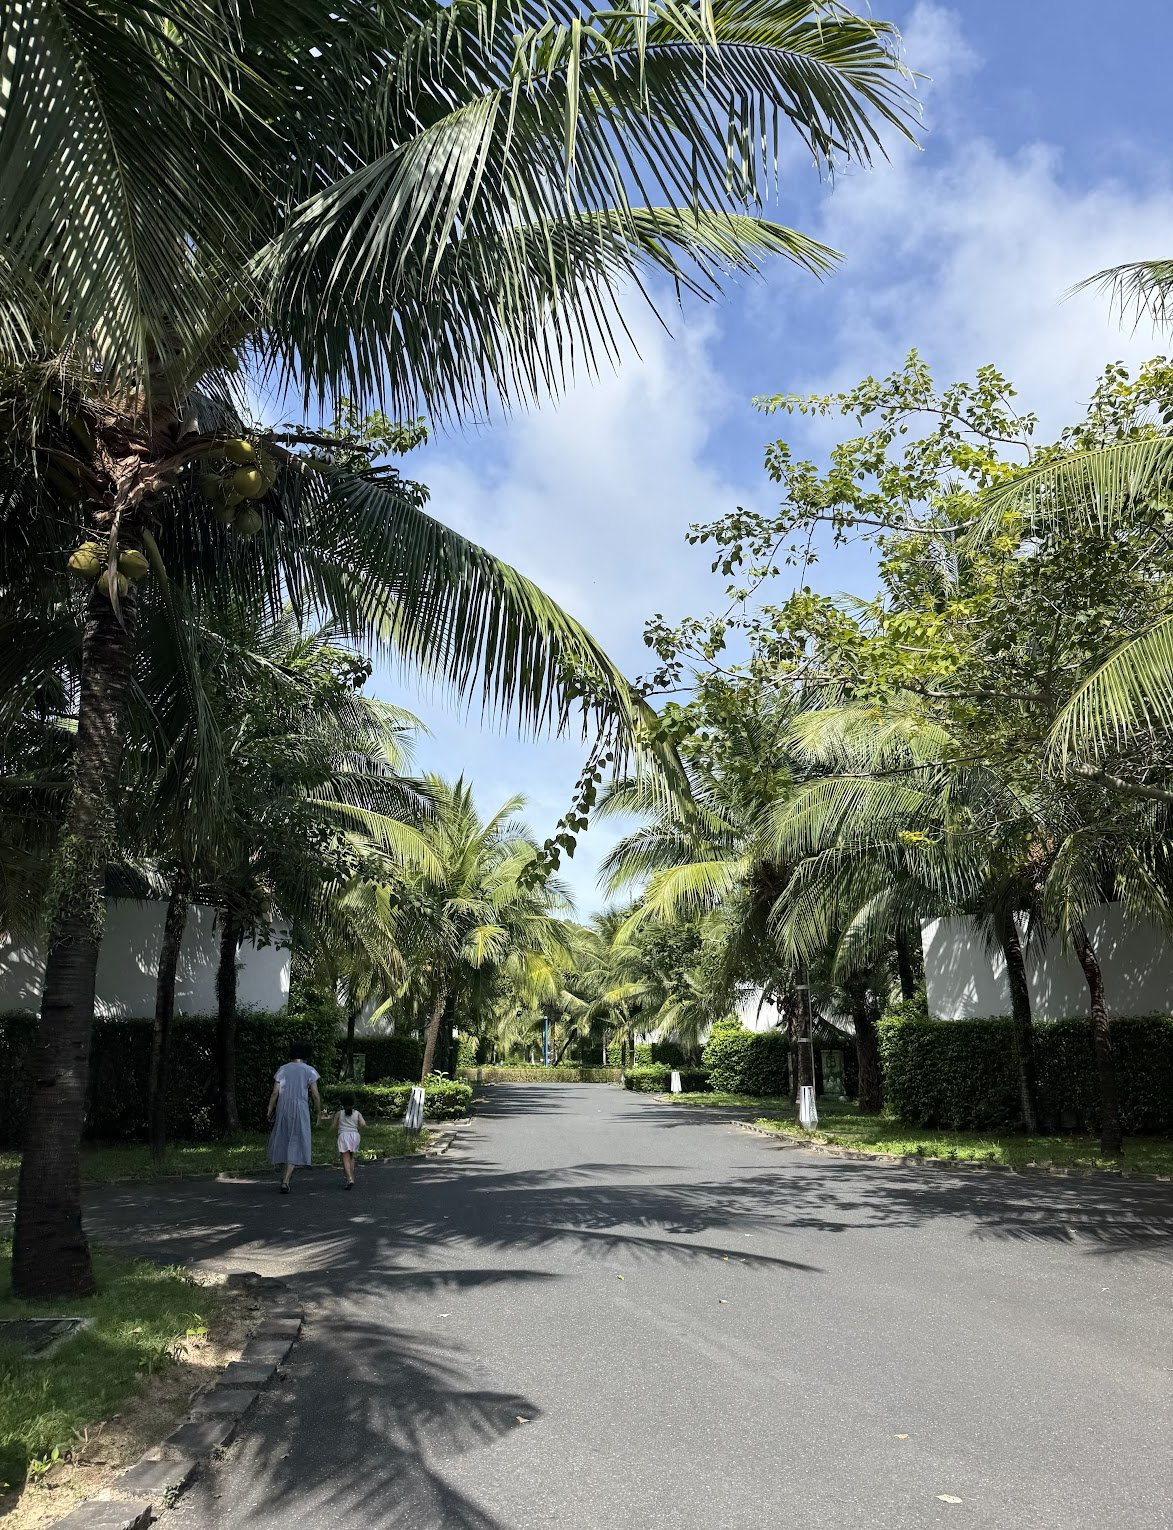
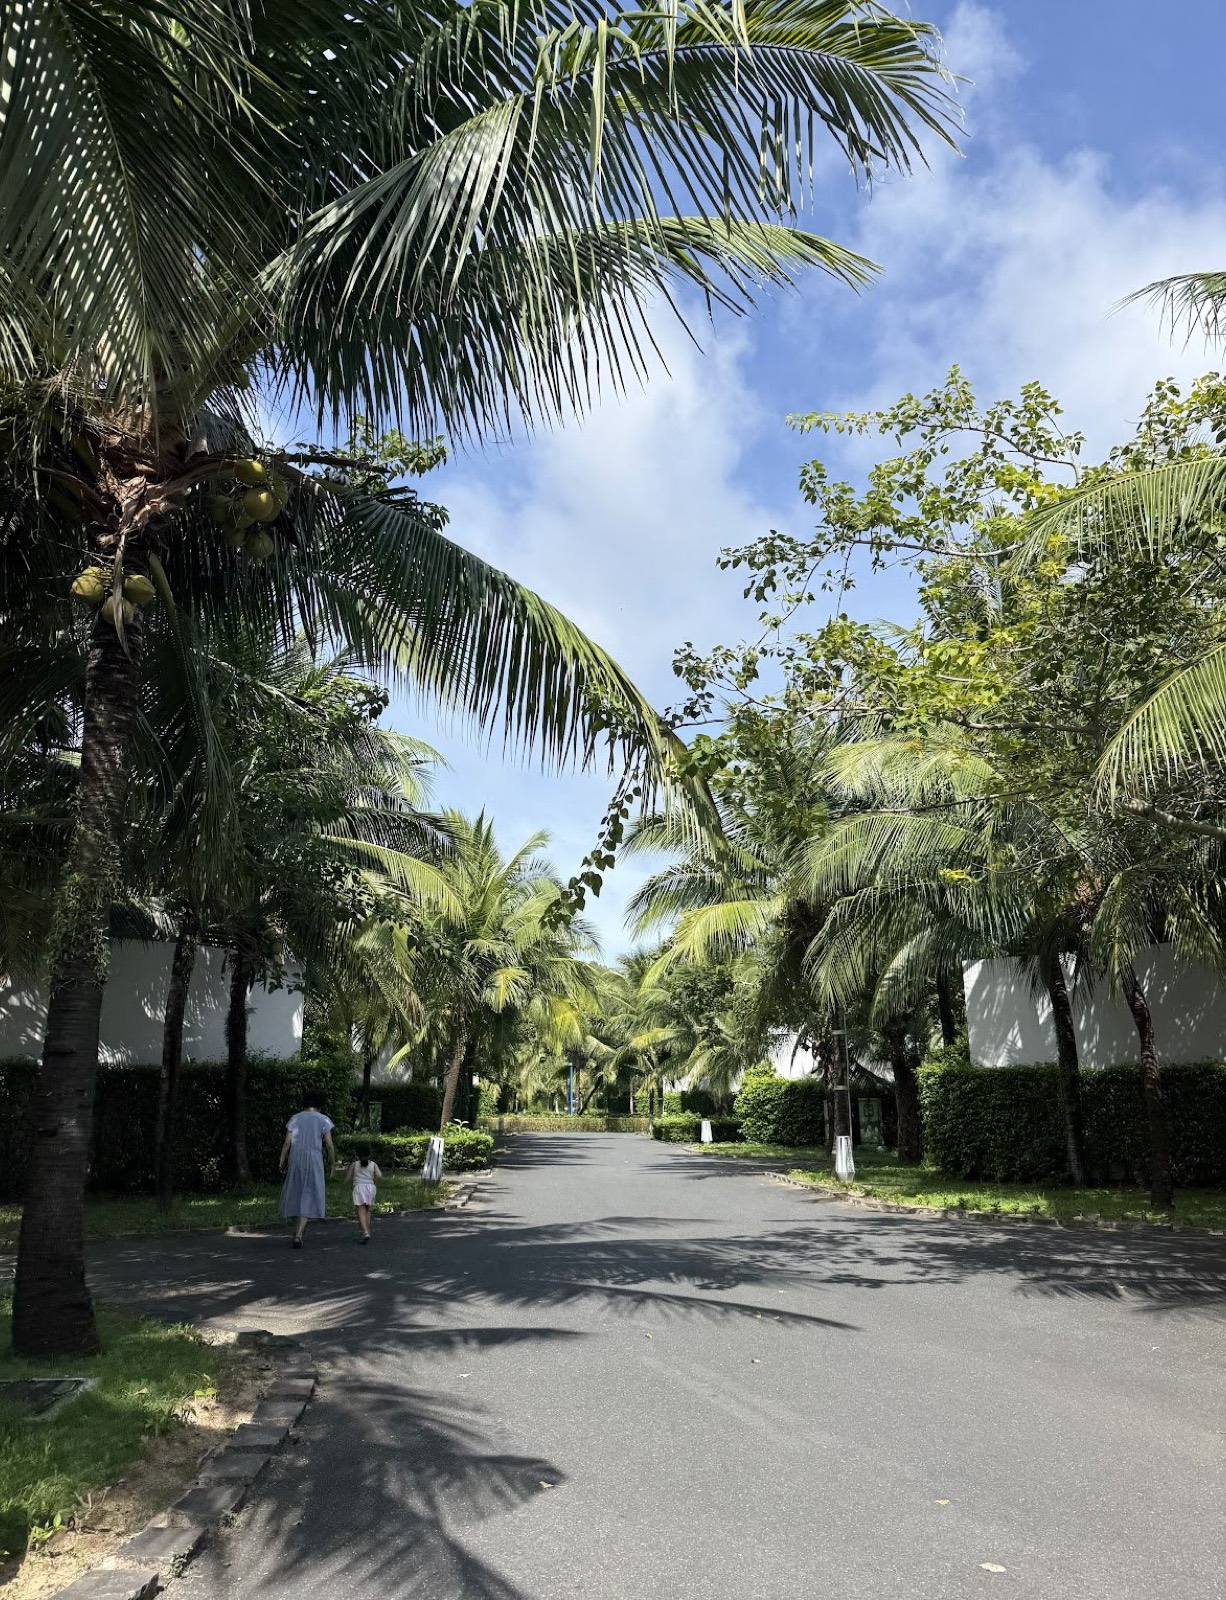
feat(blog): publish phu-quoc-family-trip-and-space
Fix broken absolute image paths, dedupe space-containing filenames,
group photos into 2-3 column grids, and downsize originals
(127MB -> ~20MB) for reasonable page weight.

Claude-Session: https://claude.ai/code/session_01GbUNymZzbu5w3CoQbs2ZvL

diff --git a/_posts/2026-09-28-phu-quoc-family-trip-and-space.md b/_posts/2026-09-28-phu-quoc-family-trip-and-space.md
@@ -1,6 +1,6 @@
 ---
-title: "푸꾸옥 가족 여행 후기: 괌·이시가키보다 편했던 건 '공간의 여유'"
-subtitle: 베트남 푸꾸옥은 괌, 이시가키보다 편했다
+title: "푸꾸옥 가족 여행 후기: 괌·이시가키보다 편했다"
+subtitle: 푸꾸옥의 압도적 숙소, 리조트 공간이 주는 여유 
 description: 부모님, 아이들과 함께한 푸꾸옥 남부 가족여행 후기. 뉴월드 푸꾸옥 풀빌라가 괌·이시가키보다 편했던 이유와 리조트 근처의 선셋타운 인상, 잘 쉬는 여행이 남긴 생각을 적어보았다.
 date: 2026-09-28 03:30:00 +09:00
 categories: [life]
@@ -8,29 +8,50 @@ tags: [푸꾸옥, 가족여행, 풀빌라, 베트남 여행]
 internal_tags: [푸꾸옥 가족여행 후기, 뉴월드 푸꾸옥 풀빌라, 푸꾸옥 대가족 여행, 괌 푸꾸옥 비교, 푸꾸옥 선셋타운, 부이페스트 야시장, 1인당 공간, 삶의 지향점]
 hero_image: /assets/images/thumbnail/2026-09-28_phu-quoc-family-trip-and-space.png
 ---
+
+<style>
+.yb-img-grid { display: flex; flex-wrap: wrap; gap: 8px; margin: 20px 0; }
+.yb-img-grid img { flex: 1 1 0; min-width: 0; width: 100%; height: 220px; object-fit: cover; border-radius: 8px; }
+.yb-img-grid.cols-2 img { flex-basis: calc(50% - 4px); }
+.yb-img-grid.cols-3 img { flex-basis: calc(33.333% - 6px); }
+@media (max-width: 600px) {
+  .yb-img-grid img { flex-basis: calc(50% - 4px) !important; height: 140px; }
+}
+</style>
+
 푸꾸옥 여행을 한마디로 표현한다면 여력, 여유라고 할 수 있을 것 같다. 푸꾸옥은 땅에도, 자연에도, 숙소에도 여분의 공간이 있는 섬이다. 한국에서 익숙해진 효율의 눈으로 보면 조금 낯설 정도였다. 땅도, 자연도, 사람이 쉬는 자리도 어떻게든 더 잘게 쪼개 쓰려는 느낌이 없고, '그거 빼도 남는 거 많다' 이런 느낌이랄까? 이번 여행에서 내가 좋았던 건 어쩌면 그 넉넉함 자체였는지도 모르겠다.
 
 <!--more-->
 
 부모님, 아이들과 함께한 푸꾸옥 여행에서 가장 많이 느낀 건 이런 '뭔가 아직 많이 남아 있다'는 여지, 여력이다. 더 개발할 땅과 국가의 지원이 있었고, 햇빛과 물을 잔뜩 받아 자신감 넘치는 식물들이 있었고, 리조트 공간은 한푼이라도 더 원금 회수해보려는 의도조차 없는 듯 박하지 않고 넉넉했다. 
 
+
+
 ## 푸꾸옥에서 받은 인상들
 
-### 1. 이 곳은 포텐(Potential)의 섬
+### 1. 포텐(Potential)의 섬
 
 푸꾸옥 공항의 첫인상은 괌, 이시가키 같은 섬나라 작은 공항과 다르지 않다. 하지만 공항을 나오면 이 섬들과는 확연히 다르다는 것을 알게 된다. 바로 이 공항 주변에서는 대형 공사가 진행 중이라는 것. 나는 이 모습을 푸꾸옥 또한 성장 여력으로 읽었다.
 
 '고작 공사장으로? 성장 잠재력을 느꼈다고?' 라 할 수 있지만 공사의 규모가 정말 컸다.  대규모 공항 증축을 하고 있고, 오페라 하우스 건축하고 있었고, 이미 화려한 리조트가 가득 차있는데 리조트를 추가 건설하고 있었다. 한국은 재건축 신축 아파트 공사 정도가 그나마 대형 공사일텐데, 주거가 아닌 초대형 개발 수요와 그걸 받쳐줄 공간이 남아있다는게 너무 신기했다. 
 
+<div class="yb-img-grid cols-2">
+  <img src="/assets/images/posting/260928/phuquoc_airport.jpg" alt="푸꾸옥 공항 공사 현장">
+  <img src="/assets/images/posting/260928/phuquoc_airport_new.webp" alt="푸꾸옥 공항 신축 현장">
+</div>
+
 ### 2. 식물들의 자신감이 넘치는 섬
 
 아열대 섬답게 나무들은 자신감이 넘친다. 햇살도, 물도 많고 따뜻하니 토양은 촉촉하고 나무의 키는 크고 꽃잎과 이파리는 활짝 펼쳐져 있다. 강렬한 해에 지쳐 커질 대로 커지다 오그라들거나 타버린 잎들도 있다. 야자수의 갈라진 잎조차 해를 다 받으니 감당이 안 돼서 효율상 갈라진 것처럼 보일 정도. 
 
-![리조트 산책로를 따라 빽빽하게 자란 나무들](/assets/images/posting/260928/resort-plants.jpg)
+<div class="yb-img-grid cols-2">
+  <img src="/assets/images/posting/260928/resort-road.jpg" alt="리조트 진입로 가로수">
+  <img src="/assets/images/posting/260928/resort-plant-lotus.jpg" alt="연꽃">
+  <img src="/assets/images/posting/260928/laundry-plant2.jpg" alt="빨랫방망이 나무">
+  <img src="/assets/images/posting/260928/resort-plant.jpg" alt="리조트 식물">
+</div>
 
-이 나무는 리조트 곳곳에 있던 나무다. 평범한 나무인데 어찌나 잎이 단단하고 기세가 넘치는지... 나는 이걸 빨랫방망이 나무라고 이름 붙였다. 뽑아서 빨래 방망이로 써도 될 것 같아서....
-
-![빨랫방망이 나무](/assets/images/posting/260928/laundry-bat-tree.jpg)
+마지막의 이 풀은 리조트 곳곳에 있던 나무다. 평범한 나무인데 어찌나 잎이 단단하고 기세가 넘치는지... 나는 이걸 빨랫방망이 나무라고 이름 붙였다. 뽑아서 빨래 방망이로 써도 될 것 같아서....
 
 먹는 채소 또한 어디서 먹어도 정말 싱싱했다. 여기는 콜드 체인이 잘되어있나?  그릇에서 꺼내 땅에 심으면 다시 자랄 것 같은 정도?로 모든 음식에 곁들여진 채소의 신선함이 남달랐다. 
 
@@ -40,9 +61,11 @@ hero_image: /assets/images/thumbnail/2026-09-28_phu-quoc-family-trip-and-space.p
 
 나는 한국인의 성격이 급한 건 기후 영향이 있다고 생각해왔다. 우리나라는 봄, 여름에 미리 준비하지 않으면 겨울을 굶어야 하니 서두름이 몸에 밴 것이 아닐까하는 가설이다. 그런데 베트남은 겨울도 없고 먹을 것도 넉넉한데도 이런 빠릿함과 명확함이 섞여 있어서 이 나라의 이야기가 궁금해졌다. 
 
+
+
 ## 푸꾸옥 리조트 후기 - 풀빌라의 축복이 끝이 없네
 
-{: data-toc="푸꾸옥 풀빌라가 가족 여행에 편한 3가지"}
+{: data-toc="푸꾸옥 풀빌라가 좋은 3가지"}
 
 왜 푸꾸옥을 부모님이나 아이들과 함께 오는 대가족 여행지로 많이 찾는지, 완전 이해했다. 
 
@@ -50,7 +73,7 @@ hero_image: /assets/images/thumbnail/2026-09-28_phu-quoc-family-trip-and-space.p
 
 ### 1. 완벽히 개인화된 휴식을 취할 수 있었다
 
-{: data-toc="각자 편하게 쉴 수 있다 "}
+{: data-toc="개별 휴식 공간"}
 
 이번 여행에서 가장 만족스러운 것은 숙소였다. 
 
@@ -58,19 +81,28 @@ hero_image: /assets/images/thumbnail/2026-09-28_phu-quoc-family-trip-and-space.p
 
 괌, 이시가키 등 리조트 여행을 다녀왔을 때는 리조트의 방을 빌리는 형태였다. 문제는 가족 여행이라 커넥티드 룸을 열어두고 있어서 편하기도 했지만 묘하게 신경이 많이 쓰였고 같은 방을 쓰면 더욱이 편히 쉬기가 어려웠다. 
 
+<div class="yb-img-grid cols-2">
+  <img src="/assets/images/posting/260928/IMG_4485.jpg" alt="풀빌라 방">
+  <img src="/assets/images/posting/260928/IMG_4165.jpg" alt="풀빌라 침실">
+  <img src="/assets/images/posting/260928/IMG_4175.jpg" alt="풀빌라 욕실">
+  <img src="/assets/images/posting/260928/pool-villa-living-room.png" alt="풀빌라 거실">
+</div>
+
 ### 2. 우리 혼자 리조트 쓰나? 사람에 치이지 않았다
 
-{: data-toc="프라이빗한 "}
+{: data-toc="프라이빗한 공간"}
 
 넓은 리조트 전체를 우리 가족끼리 빌려 쓰는 것 같다고 느꼈다. '와 여기 우리뿐인가?' 싶은 여유와 자유로움. 사실 조식 먹을 때 보면 사방이 한국인인데, 리조트에서는 한국인 뿐만 아니라 다른 여행객을 마주칠 일이 거의 없다.  각자 리조트의 빌라 한 동을 빌려 쓰기도 하고, 이동할 때는 버기카를 불러 따로  다니다보니 그런 듯 하다.  
 
-![사람 없이 한적한 리조트 안 길](/assets/images/posting/260928/resort-road.jpg)
+![리조트 전경](/assets/images/posting/260928/phuquoc-pool-villa2.jpg)
 
 ### 3. 이동과 짐나르기의 번거로움이 거의 없다
 
-{: data-toc="노인과 아이가 오래 걷지 않아도 된다"}
+{: data-toc="걷지 않고 버기카로 "}
 
 리조트 내를 버기로 이동하다 보니 아이들도,  오래 걷기 힘든 어르신들도 부담스럽지 않았다. 특히 수영장이나 바닷가를 나갈 때, 짐을 잔뜩 가지고 가는 것도 쉽고 지칠때까지 놀고 버기를 타고 편하게 다시 돌아 올 수 있었다. 이런 이동과 짐챙기기 놀고 돌아오면서 생기는 여분의 피로와 짜증이 없었다. 
+
+![버기카](/assets/images/posting/260928/phuquoc-pool-villa.png)
 
 
 
@@ -86,21 +118,28 @@ hero_image: /assets/images/thumbnail/2026-09-28_phu-quoc-family-trip-and-space.p
 
 뉴월드 푸꾸옥 리조트 앞은 정말 뭐가 없다. 그래서 가끔 저녁을 리조트 근처에서 먹기 위해 10개 남짓한 리조트 앞 가게에 가야하나? 망설였다. 보통 리조트 앞 가게는 비싸고 창렬하다는게 통설이니까. 
 
-그래서 어차피 가야하지만 괜찮은 구글 리뷰를 보면서도 전전긍긍하며 피자집(Thyme Bistro)에 갔는데... 음식이 정말 맛있었다. 친절하기도 했고. 그러면서 다음날부터 마사지 샵(Sen Spa)과 태국 음식점(Thai Papaya), 베트남 음식점(Com Tho Tay Cam)을 갔는데 모두 맛이 있었고 가격도 정말 괜찮았다. 7그릇 시켜서 5만 5천원 정도? ㅎㅎ 
+그래서 어차피 가야하지만 괜찮은 구글 리뷰를 보면서도 전전긍긍하며 피자집( [Thyme Bistro](https://www.google.com/maps/place/Thyme+Bistro+Restaurant+Phu+Quoc/@10.0388138,104.0229438,17z/data=!3m1!4b1!4m6!3m5!1s0x31a797004cc029c9:0xe04fd9a9e5de7f4!8m2!3d10.0388138!4d104.0255187!16s%2Fg%2F11wxtzntvl?entry=ttu&g_ep=EgoyMDI2MDkyMy4wIKXMDSoASAFQAw%3D%3D))에 갔는데... 음식이 정말 맛있었다. 친절하기도 했고. 그러면서 다음날부터 마사지 샵([Sen Spa](https://www.google.com/maps/place/Sen+Spa/@10.0357227,104.0127487,17z/data=!4m6!3m5!1s0x31a7978e1af51b63:0xf9a26d8e9a06d78b!8m2!3d10.0387616!4d104.0255245!16s%2Fg%2F11vj1b49yg?entry=ttu&g_ep=EgoyMDI2MDkyMy4wIKXMDSoASAFQAw%3D%3D))과 태국 음식점([Thai Papaya](https://www.google.com/maps/place/Thai+Papaya+Restaurant/@10.0387214,104.0229506,17z/data=!4m14!1m7!3m6!1s0x31a7970d88f98fc3:0xc23bb6cb1ac4bc23!2sThai+Papaya+Restaurant!8m2!3d10.0387214!4d104.0255255!16s%2Fg%2F11y8rhy12w!3m5!1s0x31a7970d88f98fc3:0xc23bb6cb1ac4bc23!8m2!3d10.0387214!4d104.0255255!16s%2Fg%2F11y8rhy12w?entry=ttu&g_ep=EgoyMDI2MDkyMy4wIKXMDSoASAFQAw%3D%3D)), 베트남 음식점([Com Tho Tay Cam](https://www.google.com/maps/place/Com+Tho+Tay+Cam+Seafood+%26+Meat+BBQ+Restaurant/@10.038754,104.0229826,17z/data=!3m1!4b1!4m6!3m5!1s0x31a797b63972be01:0x8824e760f9d4dc53!8m2!3d10.038754!4d104.0255575!16s%2Fg%2F11lnsdgb5c?entry=ttu&g_ep=EgoyMDI2MDkyMy4wIKXMDSoASAFQAw%3D%3D))을 갔는데 모두 맛이 있었고 가격도 정말 괜찮았다. 7그릇 시켜서 5만 5천원 정도? ㅎㅎ 
 
  고르느라 애쓰지 않고 그냥 앞에 있는 데 들어가도 괜찮네? 어디가 괜찮은가 너무 고민하지 않아도 돼서 편했다. 
+
+
 
 ### 2. 계획도시의 스케일 - 선셋타운과 부이페스트 야시장
 
 {: data-toc="푸꾸옥 선셋타운 후기"}
 
-푸꾸옥에서  설계자로 일했다면 참 행복했을 것 같다. 개인에게 주어지는 공간도 컸지만 한 번에 설계할 수 있는 공간의 크기 자체도 크다고 느꼈다. 선셋타운과 부이페스트 야시장은 계획해 만든 관광타운임에도 기계적이거나 조악하지 않았다. 메인스트림은 길도 아주 넓게 건물도 규모감을 아주 크게 해서 시원시원하다. 키스브릿지앞 대형 건물을 보고 '콜로세움이야 뭐야' 싶었다.  메인스트림 아래로 내려가면 해변을 끼고 각종 식당가가 언덕을 따라 길게 이어진다. 언덕 지형을 따라 골목과 계단이 층층이 이어져 오래된 유럽 마을 같은 분위기가 난다. 
+푸꾸옥에서 건축 설계자로 일했다면 참 행복했을 것 같다. 개인에게 주어지는 공간도 컸지만 한 번에 설계할 수 있는 공간의 크기 자체도 크다고 느꼈다. 선셋타운과 부이페스트 야시장은 계획해 만든 관광타운임에도 기계적이거나 조악하지 않고 시원시원하고 다채로운 편이다. 
 
-![해 질 녘 2층 버스에서 본 야자수 길](/assets/images/posting/260928/sunset-bus.jpg)
+메인스트림은 길도 아주 넓게 건물도 규모감을 아주 크게 해서 시원시원하다. 키스브릿지앞 대형 건물을 보고 '콜로세움이야 뭐야' 싶었다.  메인스트림 아래로 내려가면 해변을 끼고 각종 식당가가 언덕을 따라 길게 이어진다. 언덕 지형을 따라 골목과 계단이 층층이 이어져 오래된 유럽 마을 같은 분위기가 난다.
 
-해안가의 Sorento라는 베트남 음식점에서 저녁을 먹었는데 불꽃놀이도 보이고 시원하고 바다도, 석양도 잘 보여서 행복했다. 
+선셋타운 해안가의 [Sorento](https://www.google.com/maps/place/Sorrento+Restaurant+%26+Bar/@10.0263125,104.0046126,17z/data=!3m1!4b1!4m6!3m5!1s0x31a795bdac8f2a7f:0x95fd9c8dea8146b5!8m2!3d10.0263125!4d104.0071875!16s%2Fg%2F11sc26c02p?entry=ttu&g_ep=EgoyMDI2MDkyMy4wIKXMDSoASAFQAw%3D%3D)라는 베트남 음식점에서 저녁을 먹었는데 불꽃놀이도 보이고 시원하고 바다도, 석양도 잘 보여서 행복했다. 여기는 에어컨석이 아니라 꼭 아웃사이드에 앉으시길...!
 
-### 3. 지독한 컨셉지향 - 꾸밈Max아니지만 예쁜 선셋타운 시멘트 건물들
+<div class="yb-img-grid cols-2">
+  <img src="/assets/images/posting/260928/sunset-town-night.jpg" alt="선셋타운 야경">
+  <img src="/assets/images/posting/260928/sunset-town-fireworks.jpg" alt="선셋타운 불꽃놀이">
+</div>
+
+### 3. 일관된 컨셉 - 지중해풍 선셋타운 건물들
 
 선셋타운은 이름처럼 바다의 석양이 아름답기도 하지만 경사진 땅을 따라 파스텔톤 시멘트 건물들이 길게 늘어서 있어서 더 예쁘다. 해가 지고 조명이 켜지기 시작하면 정말 은은한 해에 물든 것 같은 색이 된다. 
 
@@ -108,12 +147,24 @@ hero_image: /assets/images/thumbnail/2026-09-28_phu-quoc-family-trip-and-space.p
 
 가까이서 보면 너무 허술한데 컬러가 맞고 바다와 석양이 더해지니 꽤 그럴싸했다. 대단히 뭘 하지 않아도, 그룹이 되니 예뻤다. 한국의 각자는 예쁜데 어울리면 이상한 건물들과는 다른 효과가....  처음에는 베트남이 프랑스 식민지였어서 이렇게 했나? 싶었는데 사실 선셋타운 자체의 테마가 이탈리아 지중해 도시라 이탈리아 식의 회벽을 활용한 것이라 한다. 
 
+<div class="yb-img-grid cols-3">
+  <img src="/assets/images/posting/260928/IMG_4450.jpg" alt="선셋타운 파스텔톤 건물">
+  <img src="/assets/images/posting/260928/IMG_4452.jpg" alt="선셋타운 골목">
+  <img src="/assets/images/posting/260928/IMG_4453.jpg" alt="선셋타운 건물 외벽">
+</div>
+
 이만한 면적을 한 콘셉트로 밀어붙이려면 관광타운을 국가 지원하에 크게 만들어야 하는구나 싶다. 
+
+
 
 ## 1인당 공간이 넓은 곳에서의 여행이 주는 편안함 
 
 {: data-toc="여행에서 느낀 점"}
 
+<div class="yb-img-grid cols-2">
+  <img src="/assets/images/posting/260928/IMG_4393.jpg" alt="여행 스냅 1">
+  <img src="/assets/images/posting/260928/IMG_3975.jpg" alt="여행 스냅 2">
+</div>
 
 이번 푸꾸옥 여행은 넓은 숙소에서 쉬고, 바다에 나가고, 맛있는 걸 먹고, 가끔 선셋타운에 다녀오는 정도의 여행이었다. 아이들과 부모님이 함께라 외출이나 탐험이 거의 없어 참 심심한 여행 같은데 만족스럽다. 뭔가를 많이 해서가 아니라 잘 쉬어서 만족스러울 수 있구나.
 
@@ -121,10 +172,12 @@ hero_image: /assets/images/thumbnail/2026-09-28_phu-quoc-family-trip-and-space.p
 
 지금은 도심 접근성이 떨어지는 서울 외곽에 산다. 하지만 단지 정원이며 집이며 도로 폭, 다니는 병원의 공간까지 내가 점유하는 공간 자체가 전체적으로 넓어졌다. (병원 임대도 기본 300평 이렇다 ㅎㅎ) 그리고 여기 산 지 좀 익숙해지자 그 넓음이 여유와 삶의 만족도를 생각보다 크게 좌우한다는 걸 이사 와서야 알게 됐다.
 
-나는 이걸 1인당 공간이라고 이야기하는데, 이번 여행에서 리조트에서는 우리 가족만 온 것처럼, 풀빌라 안에서는 각자 온 것처럼 지내며 편안함을 느낀 것 또한 이 역시 1인당 공간 점유율이 넓어졌기 때문이라 생각이 든다. 같이 있을 때는 충분히 같이 있고 떨어지고 싶을 때는 자연스럽게 떨어질 수 있는 공간의 크기와 구조가 자유로움과 여유를 주는 것이다. 
+**나는 이걸 1인당 공간이라고 이야기하는데,** 이번 여행에서 리조트에서는 우리 가족만 온 것처럼, 풀빌라 안에서는 각자 온 것처럼 지내며 편안함을 느낀 것 또한 이 역시 1인당 공간 점유율이 넓어졌기 때문이라 생각한다. 같이 있을 때는 충분히 같이 있고 떨어지고 싶을 때는 자연스럽게 떨어질 수 있는 공간의 크기와 구조가 자유로움과 여유를 주는 것이다. 
 
-## 이번 여행이 남긴 공간에 대한 생각
 
-한국 사람이 조급한 게 겨울 때문이라는 내 가설을 떠올리면, 나도 지금 겨울을 대비하듯 일하고 있는지 모른다. 좋은 집이나 넓은 집도 물론 갖고 싶다. 하지만 정말 원하는 건 어쩌면 사람과 공간 사이에 조금 더 여유가 있는 삶인지도 모르겠다.
 
-폴 그레이엄은 [도시와 야망](http://paulgraham.com/cities.html)에서 도시마다 무엇을 원하라고 속삭인다고 했다.  어떤 공간에 오래 머물면 내가 원하는 것도 조금씩 달라지는 걸까. 이번 여행이 나에게 여유를 원하라고 속삭인 건지, 원래 내가 원하던 게 이거였는지는 아직 모르겠다.
+## 어떤 공간에 머물면 내가 원하는 것도 조금씩 달라지는 걸까 
+
+폴 그레이엄은 [도시와 야망](http://paulgraham.com/cities.html)에서 도시마다 무엇을 원하라고 속삭인다고 했다. 이번 여행이 나에게 여유를 원하라고 속삭인 건지, 원래 내가 원하던 게 이거였는지는 아직 모르겠다. 
+
+한국 사람이 조급한 게 겨울 때문이라는 내 가설을 떠올리면, 나도 지금 겨울을 대비하듯 일하고 있는지 모른다. 도심의 접근성을 가진 집을 빨리 갖고 싶다. 더 많이 벌고 성공하고 싶다. 하지만 그걸 통해 정말 원하는 건 어쩌면 사람과 공간 사이에 조금 더 여유가 있는 삶인지도 모르겠다. 
